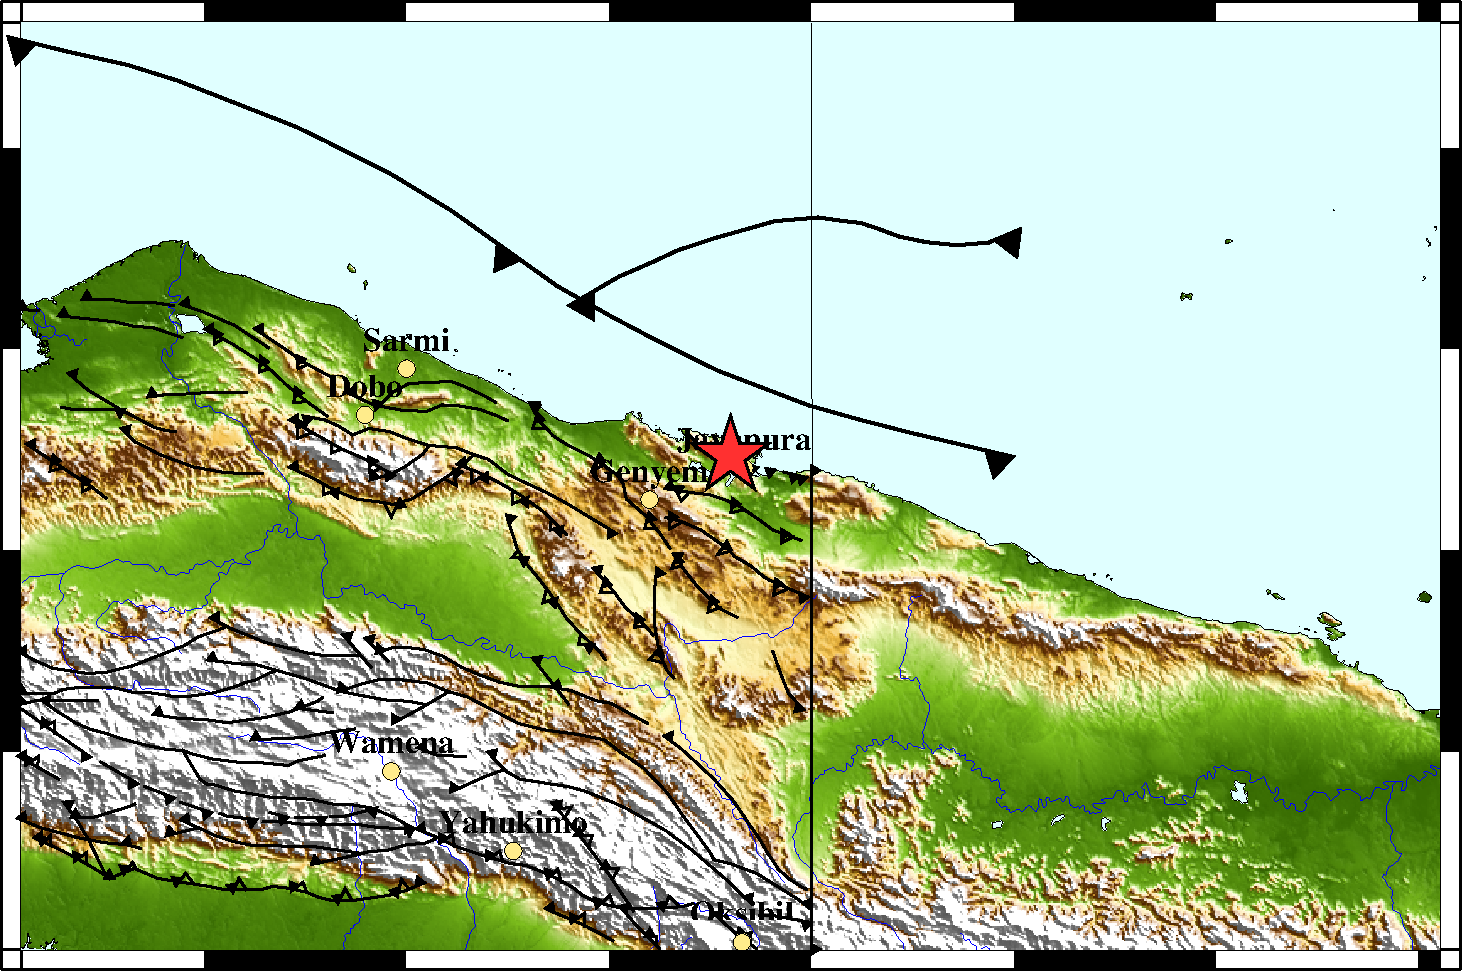
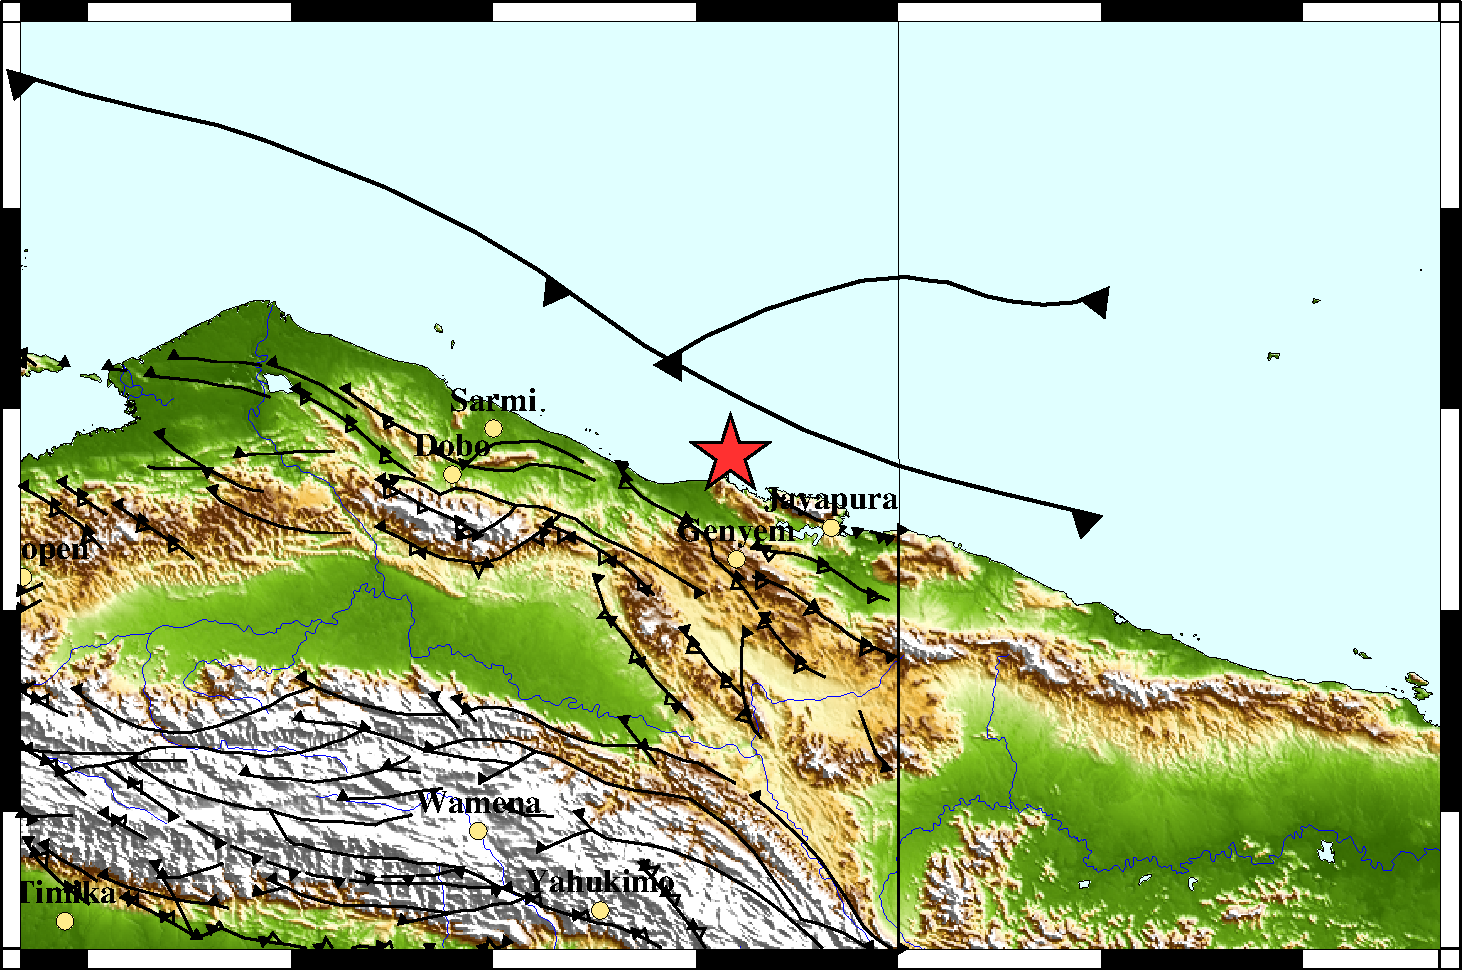
change welcome page to use spenstreetmap

diff --git a/resources/views/welcome.blade.php b/resources/views/welcome.blade.php
@@ -12,10 +12,14 @@
         <link rel="stylesheet" href="{{ asset('css/weather-icons.min.css') }}">
 {{--    <link rel="stylesheet" href="https://maxcdn.bootstrapcdn.com/font-awesome/4.7.0/css/font-awesome.min.css"> --}}
         <link href="https://fonts.googleapis.com/css?family=Abel" rel="stylesheet"> 
+		<link rel="stylesheet" href="https://unpkg.com/leaflet@1.3.4/dist/leaflet.css"
+		integrity="sha512-puBpdR0798OZvTTbP4A8Ix/l+A4dHDD0DGqYW6RQ+9jxkRFclaxxQb/SJAWZfWAkuyeQUytO7+7N4QKrDh+drA=="
+		crossorigin=""/>
         <!-- Styles -->
         <style>
             header {
                 font-family: 'Abel', sans-serif;
+				display: flex;
             }
             footer {
                 display: flex;
@@ -28,40 +32,42 @@
         </style>
     </head>
     <body class=""{{--  --}}>
-        <header class="w3-container w3-blue-grey w3-padding-16">
+        <header class="w3-container w3-teal w3-padding-16">
             <span style="font-size:2em; ">Stageof Angkasapura</span>
         </header>
         <div class="w3-row"  >
             <div class="w3-col s12">
                 <div class="w3-container">
-                <div id="map" style="width:100%;height:650px;" class="w3-margin-top w3-margin-right"></div>
+                	<div id="map" style="width:100%;height:650px;" class="w3-margin-top w3-margin-right"></div>
+						<script src="https://unpkg.com/leaflet@1.3.4/dist/leaflet.js"
+						integrity="sha512-nMMmRyTVoLYqjP9hrbed9S+FzjZHW5gY1TWCHA5ckwXZBadntCNs8kEqAWdrb9O7rxbCaA4lKTIWjDXZxflOcA=="
+						crossorigin=""></script>
 							<script>
-								function initMap() {
-									var myLatlng = {lat:-2.54, lng:140.7504  };
-									var map = new google.maps.Map(document.getElementById('map'), {
-							center: myLatlng,
-                            mapTypeId: google.maps.MapTypeId.TERRAIN,
-							zoom: 6,
+								var map = L.map('map').setView([-2.5104, 140.714], 6);
 
-							});
-							var image = '/images/star.png';
-							var iconBase = '/images/';
-					        var icons = {
-					          	terasa: {
-					            	icon: iconBase + 'redblack.png'
-					          	},
-					          	tidak: {
-					            	icon: iconBase + 'whiteblack.png'
-					          	}
-					        };
+								L.tileLayer('https://api.tiles.mapbox.com/v4/{id}/{z}/{x}/{y}.png?access_token=pk.eyJ1IjoibWFwYm94IiwiYSI6ImNpejY4NXVycTA2emYycXBndHRqcmZ3N3gifQ.rJcFIG214AriISLbB6B5aw', {
+									attribution: '&copy; <a href="https://www.openstreetmap.org/copyright">OpenStreetMap</a> contributors',
+									id: 'mapbox.streets'
+								}).addTo(map);
 
-							var features = [
+								var terasaIcon = L.icon({
+									iconUrl: '/images/redblack.png',
+									iconSize:     [20, 20], // size of the icon
+
+								});
+
+								var tidakterasaIcon = L.icon({
+									iconUrl: '/images/whiteblack.png',
+									iconSize:     [20, 20], // size of the icon
+
+								});
+							
 								@if ($datas['terasa']->count() > 0)
 									@foreach ($datas['terasa'] as $terasa)
 									{
-							            position: new google.maps.LatLng({{ $terasa->lintang }}, {{ $terasa->bujur }}),
-							            type: 'terasa',
-							            info: '<table class="table table-bordered table-striped" style="border-radius:25px;">'+
+										marker = new L.marker([{{ $terasa->lintang }}, {{ $terasa->bujur }}], { icon: terasaIcon}).addTo(map)
+										.bindPopup(
+											'<table class="table table-bordered table-striped" style="border-radius:25px;">'+
 											'<tbody>'+
 													'<tr>'+
 																'<td>'+'Magnitudo'+'</td>'+
@@ -69,7 +75,7 @@
 													'</tr>'+
 													'<tr>'+
 																'<td>'+'Tanggal'+'</td>'+
-																'<td>'+'{{ $terasa->tanggal }} {{ $terasa->waktu }} UTC'+'</td>'+
+																'<td>'+'{{ $terasa->tanggal }} {{ $terasa->origin }} UTC'+'</td>'+
 													'</tr>'+
 													'<tr>'+
 																'<td>'+'Lokasi'+'</td>'+
@@ -77,26 +83,29 @@
 													'</tr>'+
 													'<tr>'+
 																'<td>'+'Kedalaman'+'</td>'+
-																'<td>'+'{{ $terasa->kedalaman }} Km '+'</td>'+
+																'<td>'+'{{ $terasa->depth }} Km '+'</td>'+
 													'</tr>'+
 													'<tr>'+
 																'<td>'+'Lokasi'+'</td>'+
-																'<td>'+'{{ $terasa->lokasi or '-' }} Km '+'</td>'+
+																'<td>'+'{{ $terasa->ket or '-' }}'+'</td>'+
 													'</tr>'+
 													'<td>'+'Intensitas'+'</td>'+
 																'<td>'+'{{ $terasa->terdampak or '-' }} '+'</td>'+
 													'</tr>'+
 												'</tbody>'+
-											'</table>',
-          							},
+											'</table>'
+										);
+									}
 									@endforeach
 								@endif
+
+								//tidak terasa
 								@if ($datas['tidakterasa']->count() > 0)
 									@foreach ($datas['tidakterasa'] as $tidak)
 									{
-							            position: new google.maps.LatLng({{ $tidak->lintang }}, {{ $tidak->bujur }}),
-							            type: 'tidak',
-							            info: '<table class="table table-bordered table-striped">'+
+										marker = new L.marker([{{ $tidak->lintang }}, {{ $tidak->bujur }}], { icon: tidakterasaIcon}).addTo(map)
+										.bindPopup(
+											'<table class="table table-bordered table-striped" style="border-radius:25px;">'+
 											'<tbody>'+
 													'<tr>'+
 																'<td>'+'Magnitudo'+'</td>'+
@@ -104,7 +113,11 @@
 													'</tr>'+
 													'<tr>'+
 																'<td>'+'Tanggal'+'</td>'+
-																'<td>'+'{{ $tidak->tanggal }} {{ $tidak->origin }} UTC'+'</td>'+
+																'<td>'+'{{ $terasa->tanggal }}'+'</td>'+
+													'</tr>'+
+													'<tr>'+
+																'<td>'+'Origin'+'</td>'+
+																'<td>'+'{{ $terasa->origin }} UTC'+'</td>'+
 													'</tr>'+
 													'<tr>'+
 																'<td>'+'Lokasi'+'</td>'+
@@ -114,39 +127,13 @@
 																'<td>'+'Kedalaman'+'</td>'+
 																'<td>'+'{{ $tidak->depth }} Km '+'</td>'+
 													'</tr>'+
-													'<tr>'+
-																'<td>'+'Lokasi'+'</td>'+
-																'<td>'+'{{ $tidak->ket }} Km '+'</td>'+
-													'</tr>'+
 												'</tbody>'+
-											'</table>',
-          							},
+											'</table>'
+										);
+									}
 									@endforeach
-								@endif								
-        					];
+								@endif
 
-							features.forEach(function(feature) {
-					         	var marker = new google.maps.Marker({
-					            	position: feature.position,
-					            	icon: icons[feature.type].icon,
-					            	map: map
-					          	});
-
-
-							var contentString = feature.info;
-							
-
-							var infowindow = new google.maps.InfoWindow({
-								content: contentString
-							});
-							marker.addListener('click', function() {
-								infowindow.open(map, marker);
-							});
-					        });
-							
-							}
-							</script>
-							<script src="https://maps.googleapis.com/maps/api/js?key=AIzaSyAxboE6Q1qKhSDL8HO4wHyH50-CiDUygcA&callback=initMap">
 							</script>
 							<br>
 							<table>
@@ -165,8 +152,8 @@
             </div>
 
         </div>    
-        <footer class="w3-blue-grey w3-padding-32">
-                   <p>copyright Stageof Angkasapura 2018</p>         
+        <footer class="w3-teal w3-padding-32">
+                   <p>&copy; Stageof Angkasapura <?php echo date("Y"); ?></p>         
         </footer>
     </body>
 </html>

diff --git a/app/Http/Controllers/DashboardController.php b/app/Http/Controllers/DashboardController.php
@@ -17,7 +17,7 @@ class DashboardController extends Controller
 {
     public function index()
     {
-        $gempa = Gempa::latest()->first();
+        $gempa = Gempa::orderBy('id', 'DESC')->first();
         $Mbelowthree = Gempa::where('magnitudo','<', 3)
                     ->whereDate('tanggal', '>', Carbon::now()->subDays(30))->count();
         $Mthreefive = Gempa::whereBetween('magnitudo',[3, 4.9])

diff --git a/resources/views/gempa/infogempa.blade.php b/resources/views/gempa/infogempa.blade.php
@@ -120,6 +120,7 @@
             }
         })
         };
+        
 
         var mymap = L.map('map').setView([{{ $lat }}, {{ $lon }}], 7);
 
